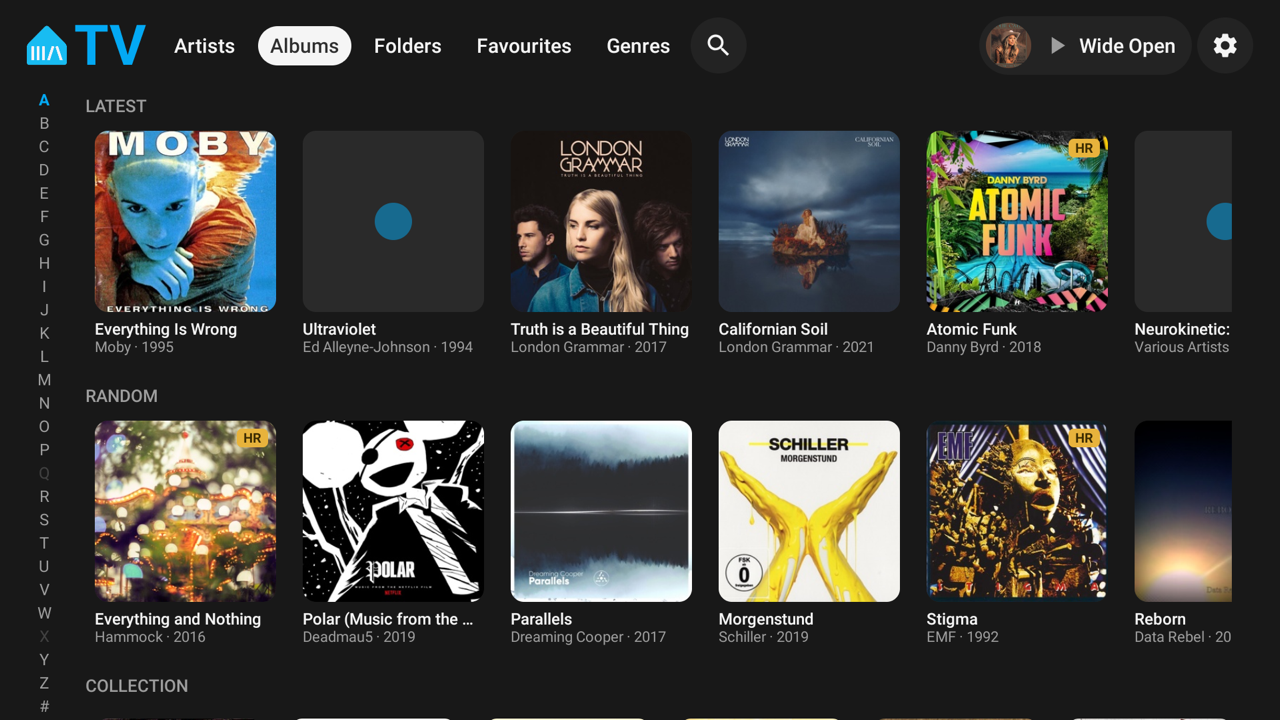
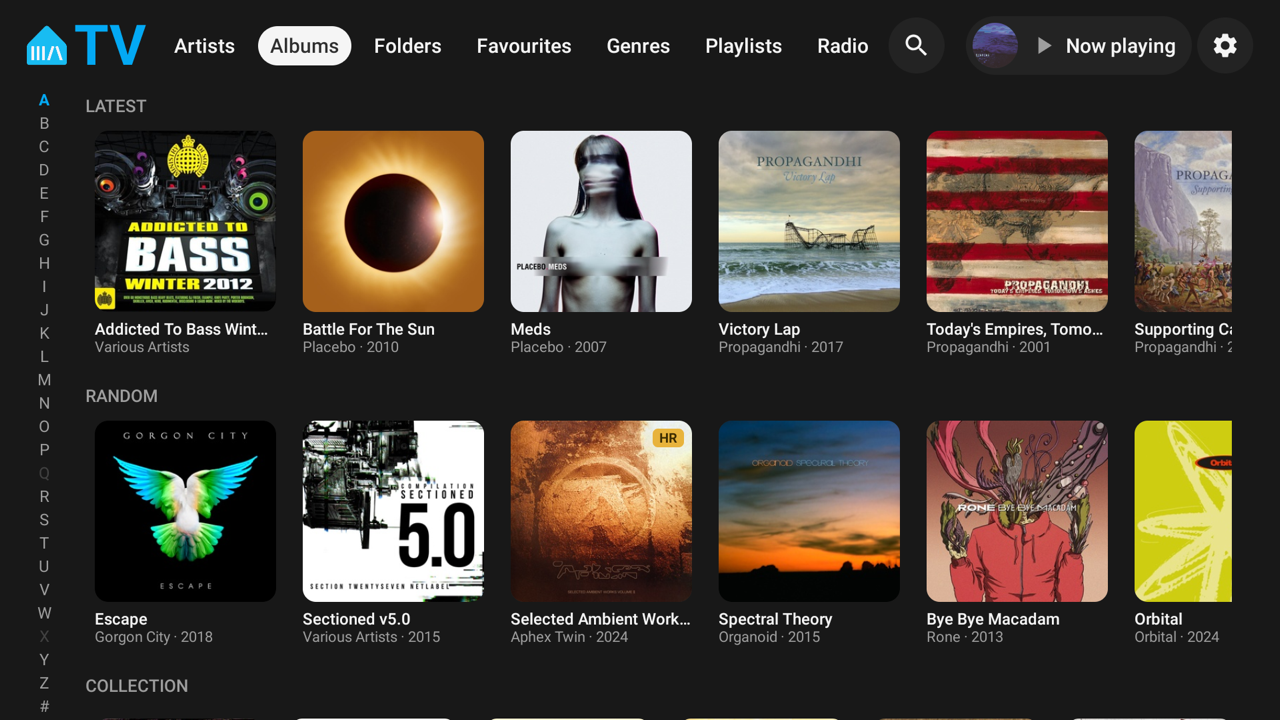
Screenshots match the finished 1.1.8 interface
The four README shots were taken at 1.0.0. Since then the header gained the
Playlists and Radio tabs and its now-playing chip settled on a fixed label,
and Now Playing gained the Visualiser button beside the queue. Reshot on the
Bravia, same four screens, 1080p scaled to 1280x720 as before.

diff --git a/README.md b/README.md
@@ -11,7 +11,7 @@ plays on your existing Music Assistant endpoints.
 
 ![An album page: format under the artist and year, one action row, disc headers in the track list](docs/screenshots/album.png)
 
-![Now Playing: artwork, source format, progress and transport](docs/screenshots/now-playing.png)
+![Now Playing: artwork, source format, progress and transport, with the queue and visualiser one press away](docs/screenshots/now-playing.png)
 
 Shot on a Sony BRAVIA at 1920x1080.
 
